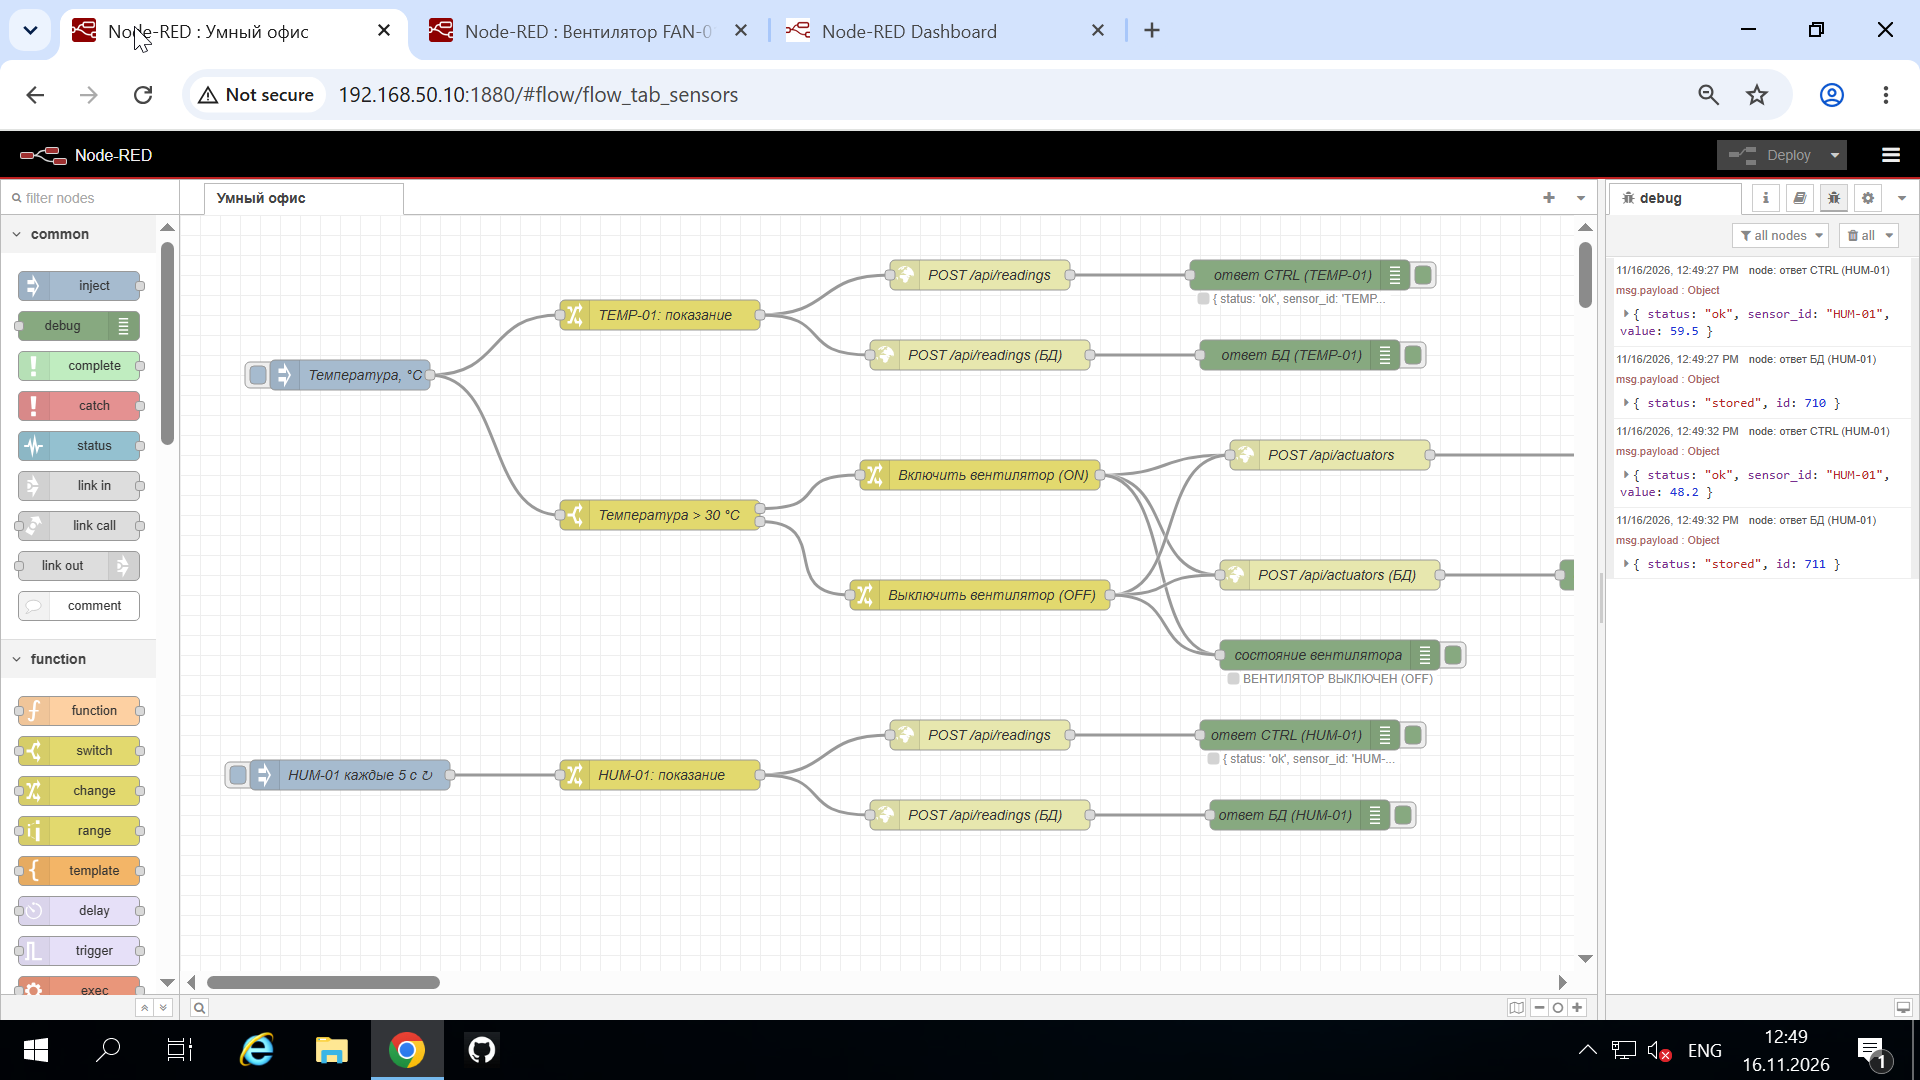
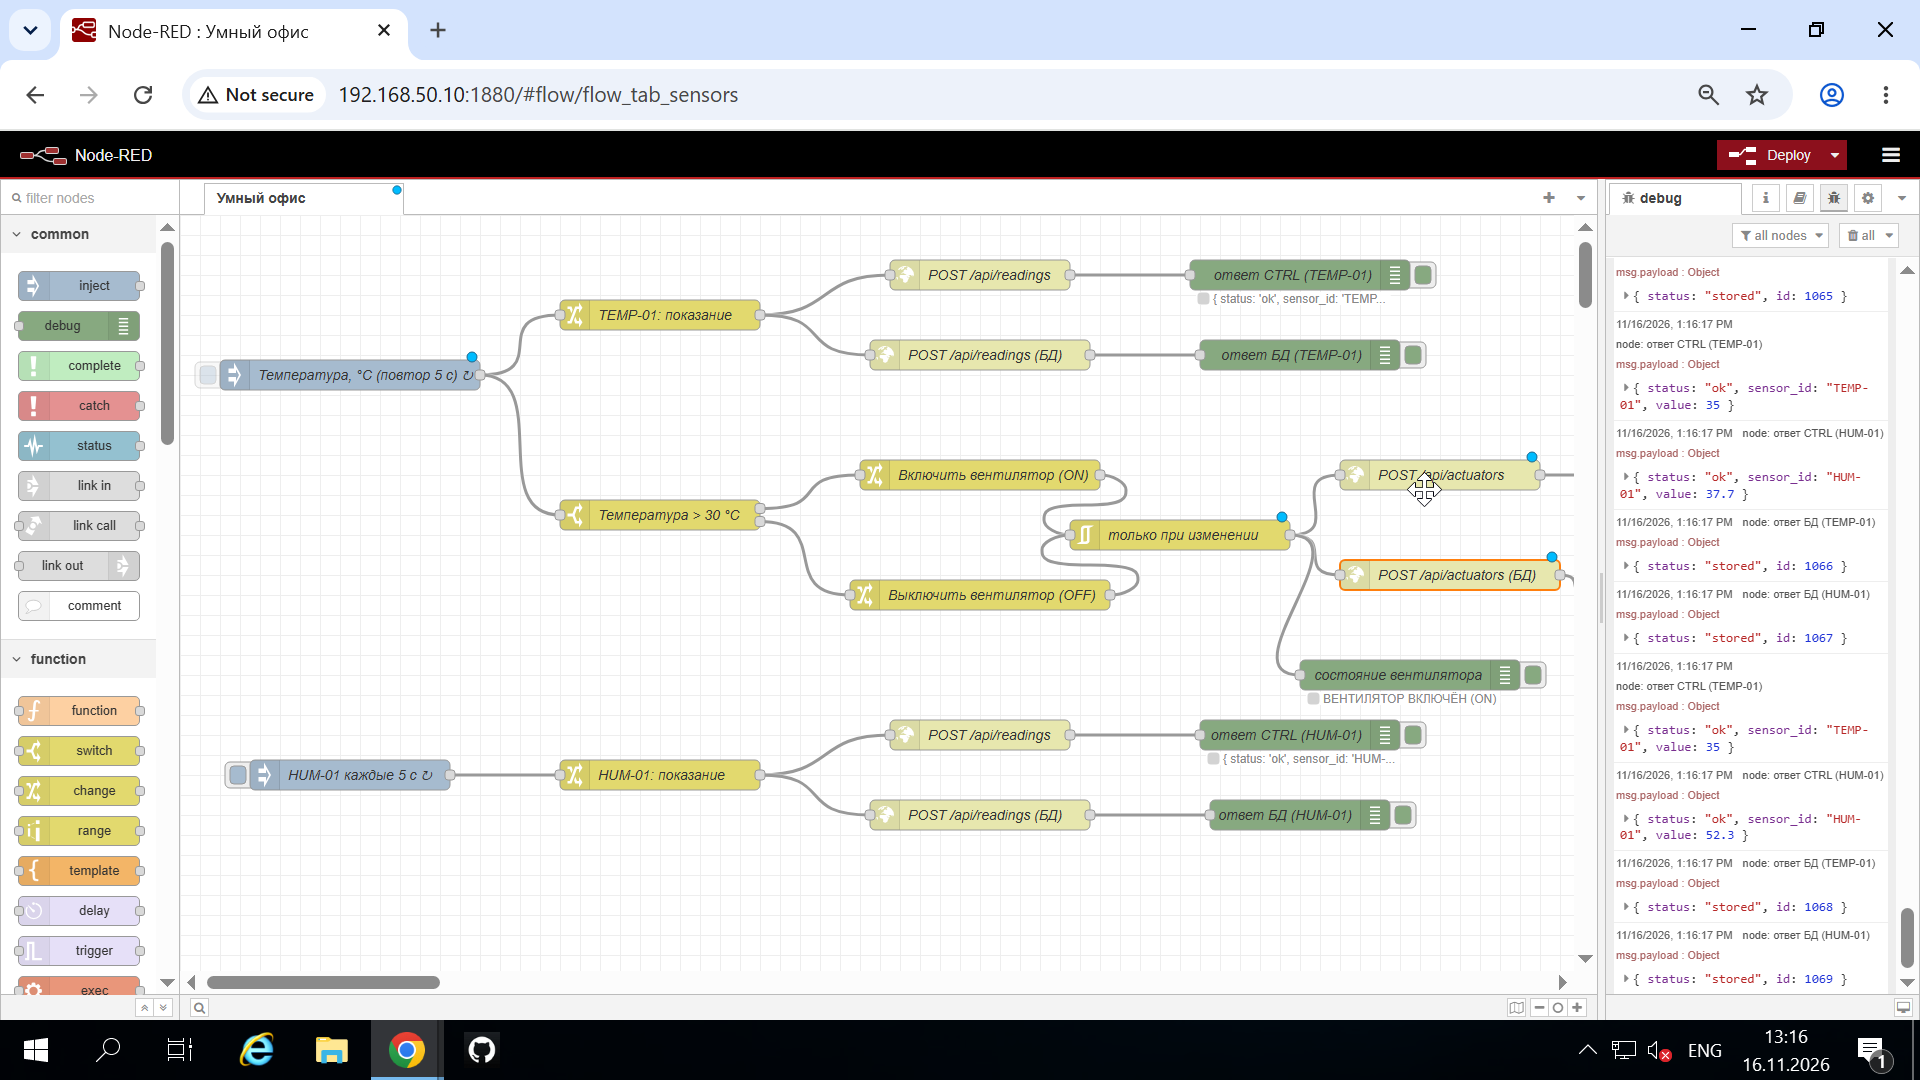
Температура повторяется каждые 5 с, события вентилятора без дублей

diff --git a/README.md b/README.md
@@ -136,7 +136,7 @@ evidence6/                         — доказательства ПР №6: c
 
 | Датчик | Зона | Единица | Как задаётся значение |
 |---|---|---|---|
-| TEMP-01 | server_room | °C | **вручную**: двойной клик по узлу `inject` «Температура, °C», число, Done, Deploy, клик по квадратику |
+| TEMP-01 | server_room | °C | **вручную**: двойной клик по узлу `inject` «Температура, °C (повтор 5 с)», число, Done, Deploy; введённое значение повторяется каждые 5 с |
 | HUM-01 | work_area | % | автоматически каждые 5 секунд (случайное 35…60) |
 
 Цепочка в Node-RED: `inject` → `change` (сборка объекта `msg.reading`) →
@@ -145,12 +145,13 @@ evidence6/                         — доказательства ПР №6: c
 
 ## Вентилятор FAN-01 (ПР №5)
 
-Температура задаётся вручную в узле `inject` «Температура, °C» (число, Done, Deploy, клик
-по квадратику) — этот же узел питает и показание TEMP-01, поэтому вводить число дважды не нужно.
-Узел `switch` сравнивает значение с порогом **30 °C**; для каждого состояния свой узел `change`
-собирает объект `msg.fan` (`state`, `actuator_id` = `FAN-01`, `zone` = `server_room`,
-`mode` = `auto`, `timestamp`), который отправляется POST-запросом на
-`http://192.168.40.10:8080/api/actuators`.
+Температура задаётся вручную в узле `inject` «Температура, °C (повтор 5 с)» (число, Done, Deploy) —
+этот же узел питает и показание TEMP-01, поэтому вводить число дважды не нужно; введённое значение
+повторяется каждые 5 секунд. Узел `switch` сравнивает значение с порогом **30 °C**; для каждого
+состояния свой узел `change` собирает объект `msg.fan` (`state`, `actuator_id` = `FAN-01`,
+`zone` = `server_room`, `mode` = `auto`, `timestamp`), а узел `rbe` «только при изменении»
+пропускает событие лишь при смене `ON`/`OFF`, чтобы база не забивалась дублями.
+POST-запрос уходит на `http://192.168.40.10:8080/api/actuators`.
 
 Приёмник обновлён до версии 2 (раздаточные материалы к ПР №5): `GET /health` отдаёт
 `{"status":"ok","version":2,"endpoints":["/api/readings","/api/actuators"]}`.
@@ -172,7 +173,10 @@ Node-RED отправляет каждое показание и каждое с
 параллельно.
 
 Вся схема собрана на одной вкладке «Умный офис»: один ручной ввод температуры питает и показание
-TEMP-01, и ветку вентилятора, поэтому одно нажатие даёт сразу запись в базу и команду `ON`/`OFF`.
+TEMP-01, и ветку вентилятора. Введённое значение повторяется каждые 5 секунд (случайности нет),
+поэтому карточка TEMP-01 на странице обновляется постоянно; узел `rbe` «только при изменении»
+не даёт писать в `actuator_events` одинаковые события каждые 5 секунд — в таблице остаются только
+реальные переключения `ON`/`OFF`.
 
 | Таблица | Что хранит | Ключевые поля |
 |---|---|---|

diff --git a/practice5/README.md b/practice5/README.md
@@ -37,30 +37,43 @@
 чтобы ручной ввод температуры был один и было видно всю цепочку сразу.
 
 ```
-inject «Температура, °C» (число, вводится вручную)
+inject «Температура, °C (повтор 5 с)» (число, вводится вручную, повтор каждые 5 с)
         │
         ├─ change «TEMP-01: показание» → POST /api/readings  → CTRL-01 и БД-01
         │
         ▼
 switch (> 30 °C) ─┬─ ON  → change «Включить» ─┐
-                  └─ OFF → change «Выключить» ─┴─► POST /api/actuators → CTRL-01 и БД-01 → debug
+                  └─ OFF → change «Выключить» ─┴─► «только при изменении» (rbe)
+                                                  ├─► POST /api/actuators      → CTRL-01
+                                                  └─► POST /api/actuators (БД) → БД-01
 ```
 
 ### Как вводить температуру
 
 Всё на схеме, отдельной страницы нет:
 
-1. Двойной клик по узлу **«Температура, °C»** (inject) на вкладке «Умный офис».
+1. Двойной клик по узлу **«Температура, °C (повтор 5 с)»** на вкладке «Умный офис».
 2. В поле `msg.payload` (тип **number**) вписать число, например `35`.
 3. **Done**, затем **Deploy**.
-4. Нажать квадратик слева от узла — значение уйдёт и в `switch`, и в ветку показания TEMP-01.
+
+После деплоя это число само уходит каждые 5 секунд — и в показание TEMP-01, и в `switch`.
+Квадратик слева тоже работает: он отправляет значение немедленно, не дожидаясь очередного цикла.
 
 Результат — в панели **debug** справа: «ВЕНТИЛЯТОР ВКЛЮЧЁН (ON)» при значении больше 30,
 «ВЫКЛЮЧЕН (OFF)» при 30 и меньше.
 
 Случайных значений у температуры нет: уходит ровно то число, которое вписали. Проверено
-на стенде — `35` даёт `ON`, `25` даёт `OFF`. Влажность HUM-01 остаётся автоматической
-(каждые 5 секунд), чтобы в базе был непрерывный поток для графика.
+на стенде — `35` даёт `ON`, `25` даёт `OFF`.
+
+### Узел «только при изменении» (rbe)
+
+Температура повторяется каждые 5 секунд, поэтому `change`-узлы ON/OFF срабатывают так же часто.
+Узел `rbe` (report by exception) стоит между ними и `http request` и пропускает сообщение только
+при смене `payload.state`: пока температура остаётся выше 30 °C, повторные `ON` в приёмник и базу
+не уходят. В `actuator_events` остаются только реальные переключения.
+
+Влажность HUM-01 остаётся автоматической (каждые 5 секунд), чтобы в базе был непрерывный поток
+для графика.
 
 ### Узел switch
 

diff --git a/journal.md b/journal.md
@@ -110,3 +110,19 @@
 - **Результат:** случайных показаний температуры больше нет — уходит ровно то число, которое
   ввели; обновлены `README.md`, `practice5/README.md`, `practice6/README.md`, доказательства
   в `evidence6/`.
+
+### Исправление: температура и вентилятор «не выводились»
+
+- **Что было:** значение температуры отправлялось только по клику на `inject`, поэтому в базе
+  и на странице «История показаний» карточки TEMP-01 и FAN-01 «замерзали» на времени последнего
+  клика (12:55), а обновлялась только влажность HUM-01 — выглядело как «не выводится».
+- **Что сделал:** узлу `inject` «Температура, °C (повтор 5 с)» включил повтор каждые 5 секунд —
+  уходит **введённое** число, без случайности, и карточка обновляется постоянно. Между
+  `change`-узлами ON/OFF и `http request` поставил узел `rbe` «только при изменении», чтобы
+  в `actuator_events` не падали одинаковые `ON` каждые 5 секунд: в таблице остаются только
+  реальные переключения. Значение по умолчанию — 35 °C.
+- **Как проверил:** `TEMP-01 = 35.0` приходит каждые 5 секунд (id 1080 в 10:16:47, id 1082
+  в 10:16:52), событий вентилятора всего 11 за всё время (`OFF` при 25 °C, `ON` при 35 °C);
+  на странице `http://192.168.40.12:8081/` карточки HUM-01, TEMP-01 и FAN-01 показывают
+  свежее время. Доказательства: `evidence6/02-before-fix-stale.png` (как было),
+  `evidence6/04-manual-temp-sql.txt`, `evidence6/05-flow.png`, `evidence6/08-web-ui.png`.
